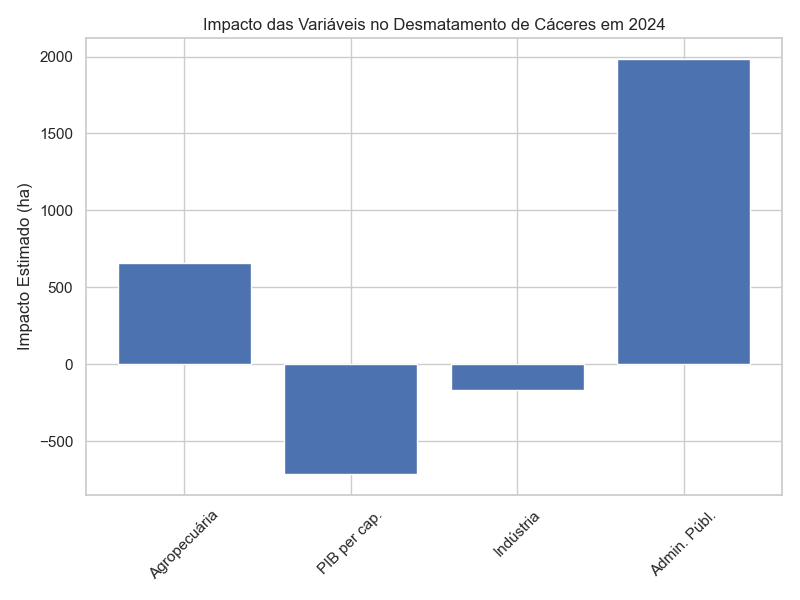
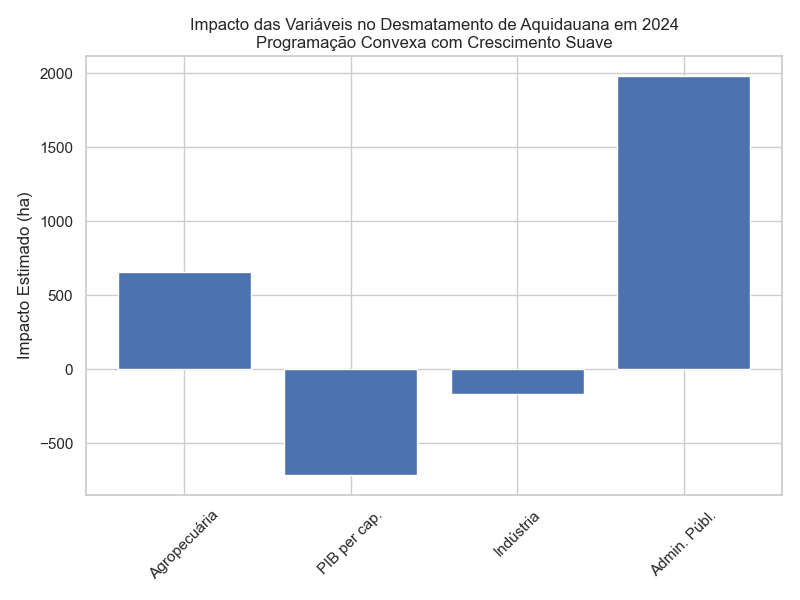
ajustes

diff --git a/teste.py b/teste.py
@@ -1,6 +1,7 @@
 import pandas as pd
 import numpy as np
 import psycopg2
+import cvxpy as cp
 from sklearn.linear_model import RidgeCV
 from sklearn.metrics import r2_score, mean_squared_error
 import matplotlib.pyplot as plt
@@ -71,13 +72,47 @@ for municipio in df["id_municipio_nome"].unique():
             "valor_industria",
             "valor_administracao_publica"
         ]]
-        anos_futuros["desmatado_previsto"] = modelo.predict(X_futuro)
+        previsao_bruta = modelo.predict(X_futuro)
 
-        # Correção de tendência crescente
-        if desmatado_2020 is not None and desmatado_2021 > desmatado_2020:
-            for i in range(len(anos_futuros)):
-                if anos_futuros.loc[i, "desmatado_previsto"] < desmatado_2021:
-                    anos_futuros.loc[i, "desmatado_previsto"] = desmatado_2021 + (i + 1) * 50
+        # PROGRAMAÇÃO CONVEXA: Ajusta previsões com restrições monótonas
+        z = cp.Variable(3)  # Variáveis para 2022, 2023, 2024
+        
+        # Calcula tendência histórica para definir crescimento mínimo
+        if len(df_mun) >= 3:
+            # Calcula taxa de crescimento médio dos últimos 3 anos
+            anos_recentes = df_mun.sort_values("ano").tail(3)
+            if len(anos_recentes) >= 2:
+                crescimento_medio = np.mean(np.diff(anos_recentes["desmatado"]))
+                # Define crescimento mínimo como 20% da tendência histórica ou 1.5% do valor atual (muito suave)
+                crescimento_minimo = max(crescimento_medio * 0.2, desmatado_2021 * 0.015)
+            else:
+                crescimento_minimo = desmatado_2021 * 0.015  # 1.5% mínimo (muito suave)
+        else:
+            crescimento_minimo = desmatado_2021 * 0.015  # 1.5% mínimo (muito suave)
+        
+        # Restrições de monotonicidade com crescimento muito suave
+        restricoes = [
+            z[0] >= desmatado_2021 + crescimento_minimo,  # 2022 >= 2021 + crescimento_mínimo
+            z[1] >= z[0] + crescimento_minimo * 0.75,     # 2023 >= 2022 + crescimento_mínimo * 0.75 (cresce muito devagar)
+            z[2] >= z[1] + crescimento_minimo * 0.5       # 2024 >= 2023 + crescimento_mínimo * 0.5 (cresce ainda mais devagar)
+        ]
+        
+        # Função objetivo: minimizar distância das previsões originais + penalização por desvio
+        # Peso maior para manter proximidade com previsão original
+        peso_fidelidade = 1.0
+        peso_suavizacao = 0.1
+        
+        objetivo = cp.Minimize(
+            peso_fidelidade * cp.sum_squares(z - previsao_bruta) + 
+            peso_suavizacao * cp.sum_squares(cp.diff(z))  # Suavização da trajetória
+        )
+        
+        # Resolve o problema de otimização
+        problema = cp.Problem(objetivo, restricoes)
+        problema.solve()
+        
+        # Aplica as previsões ajustadas
+        anos_futuros["desmatado_previsto"] = z.value
 
         # Impactos das variáveis (coeficiente × valor previsto)
         coef = modelo.coef_
@@ -99,6 +134,7 @@ for municipio in df["id_municipio_nome"].unique():
                                           anos_futuros.loc[anos_futuros.ano==2022, "desmatado_previsto"].values[0],
             "r2_score":                  round(r2, 2),
             "mse":                       round(mse, 2),
+            "crescimento_minimo_anual":  round(crescimento_minimo, 2),
             "impacto_agro_2024":         anos_futuros.loc[anos_futuros.ano==2024, "impacto_agro"].values[0],
             "impacto_pib_2024":          anos_futuros.loc[anos_futuros.ano==2024, "impacto_pib"].values[0],
             "impacto_ind_2024":          anos_futuros.loc[anos_futuros.ano==2024, "impacto_ind"].values[0],
@@ -116,21 +152,21 @@ df_resultados = pd.DataFrame(resultados).sort_values(by="desmatamento_2024", asc
 pd.set_option("display.float_format", "{:.2f}".format)
 pd.set_option("display.max_columns", None)
 print(df_resultados.to_string(index=False))
-df_resultados.to_excel("previsao_desmatamento_sem_ano.xlsx", index=False)
-df_resultados.to_csv("previsao_desmatamento_sem_ano.csv", index=False, encoding="utf-8-sig")
+df_resultados.to_excel("previsao_desmatamento_convexo.xlsx", index=False)
+df_resultados.to_csv("previsao_desmatamento_convexo.csv", index=False, encoding="utf-8-sig")
 
-# --- 7. Gráficos para o município de Cáceres ---
+# --- 7. Gráficos para o município de Aquidauana ---
 
-# Filtra histórico de Cáceres
+# Filtra histórico de Aquidauana
 df_cac = df[df["id_municipio_nome"] == "Aquidauana"].dropna().sort_values("ano")
 
-# Ajusta modelo principal para histórico de Cáceres
+# Ajusta modelo principal para histórico de Aquidauana
 X_cac_hist = df_cac[["valor_agropecuaria", "pib_per_capita",  
                      "valor_industria", "valor_administracao_publica"]]
 y_cac_hist = df_cac["desmatado"]
 modelo_cac = RidgeCV(alphas=np.logspace(-2, 4, 100), cv=3).fit(X_cac_hist, y_cac_hist)
 
-# Projeção para 2022–2024 em Cáceres
+# Projeção para 2022–2024 em Aquidauana
 anos_fut_cac = pd.DataFrame({"ano": [2022, 2023, 2024]})
 for var, mod in [
     ("valor_agropecuaria", RidgeCV().fit(df_cac[["ano"]], df_cac["valor_agropecuaria"])),
@@ -141,12 +177,49 @@ for var, mod in [
 ]:
     anos_fut_cac[var] = mod.predict(anos_fut_cac[["ano"]])
 
-# Previsão de desmatamento em Cáceres
+# Previsão de desmatamento em Aquidauana
 X_cac_fut = anos_fut_cac[[
     "valor_agropecuaria", "pib_per_capita",
     "valor_industria", "valor_administracao_publica"
 ]]
-anos_fut_cac["desmatado_previsto"] = modelo_cac.predict(X_cac_fut)
+previsao_bruta_cac = modelo_cac.predict(X_cac_fut)
+
+# PROGRAMAÇÃO CONVEXA para Aquidauana
+desmatado_2021_cac = df_cac[df_cac["ano"] == 2021]["desmatado"].values[0]
+
+# Calcula tendência histórica para definir crescimento mínimo
+if len(df_cac) >= 3:
+    # Calcula taxa de crescimento médio dos últimos 3 anos
+    anos_recentes_cac = df_cac.sort_values("ano").tail(3)
+    if len(anos_recentes_cac) >= 2:
+        crescimento_medio_cac = np.mean(np.diff(anos_recentes_cac["desmatado"]))
+        # Define crescimento mínimo como 20% da tendência histórica ou 1.5% do valor atual (muito suave)
+        crescimento_minimo_cac = max(crescimento_medio_cac * 0.2, desmatado_2021_cac * 0.015)
+    else:
+        crescimento_minimo_cac = desmatado_2021_cac * 0.015  # 1.5% mínimo (muito suave)
+else:
+    crescimento_minimo_cac = desmatado_2021_cac * 0.015  # 1.5% mínimo (muito suave)
+
+z_cac = cp.Variable(3)
+restricoes_cac = [
+    z_cac[0] >= desmatado_2021_cac + crescimento_minimo_cac,  # 2022 >= 2021 + crescimento_mínimo
+    z_cac[1] >= z_cac[0] + crescimento_minimo_cac * 0.75,     # 2023 >= 2022 + crescimento_mínimo * 0.75
+    z_cac[2] >= z_cac[1] + crescimento_minimo_cac * 0.5       # 2024 >= 2023 + crescimento_mínimo * 0.5
+]
+
+# Função objetivo com fidelidade e suavização
+peso_fidelidade_cac = 1.0
+peso_suavizacao_cac = 0.1
+
+objetivo_cac = cp.Minimize(
+    peso_fidelidade_cac * cp.sum_squares(z_cac - previsao_bruta_cac) + 
+    peso_suavizacao_cac * cp.sum_squares(cp.diff(z_cac))  # Suavização da trajetória
+)
+
+problema_cac = cp.Problem(objetivo_cac, restricoes_cac)
+problema_cac.solve()
+
+anos_fut_cac["desmatado_previsto"] = z_cac.value
 
 # 7.1 Série Temporal: Histórico vs Previsto
 ts_cac = pd.concat([
@@ -158,7 +231,7 @@ ts_cac["tipo"] = ["Histórico"] * len(df_cac) + ["Previsto"] * len(anos_fut_cac)
 plt.figure(figsize=(10, 6))
 for tipo, grp in ts_cac.groupby("tipo"):
     plt.plot(grp["ano"], grp["valor"], marker="o", label=tipo)
-plt.title("Desmatamento em Cáceres: Histórico (2010–2021) e Previsão (2022–2024)")
+plt.title("Desmatamento em Aquidauana: Histórico (2010–2021) e Previsão (2022–2024)\nProgramação Convexa com Crescimento Muito Suave")
 plt.xlabel("Ano")
 plt.ylabel("Área desmatada (ha)")
 plt.legend()
@@ -178,7 +251,7 @@ impactos_cac = {
 
 plt.figure(figsize=(8, 6))
 plt.bar(impactos_cac.keys(), impactos_cac.values())
-plt.title("Impacto das Variáveis no Desmatamento de Cáceres em 2024")
+plt.title("Impacto das Variáveis no Desmatamento de Aquidauana em 2024\nProgramação Convexa com Crescimento Muito Suave")
 plt.ylabel("Impacto Estimado (ha)")
 plt.xticks(rotation=45)
 plt.tight_layout()
